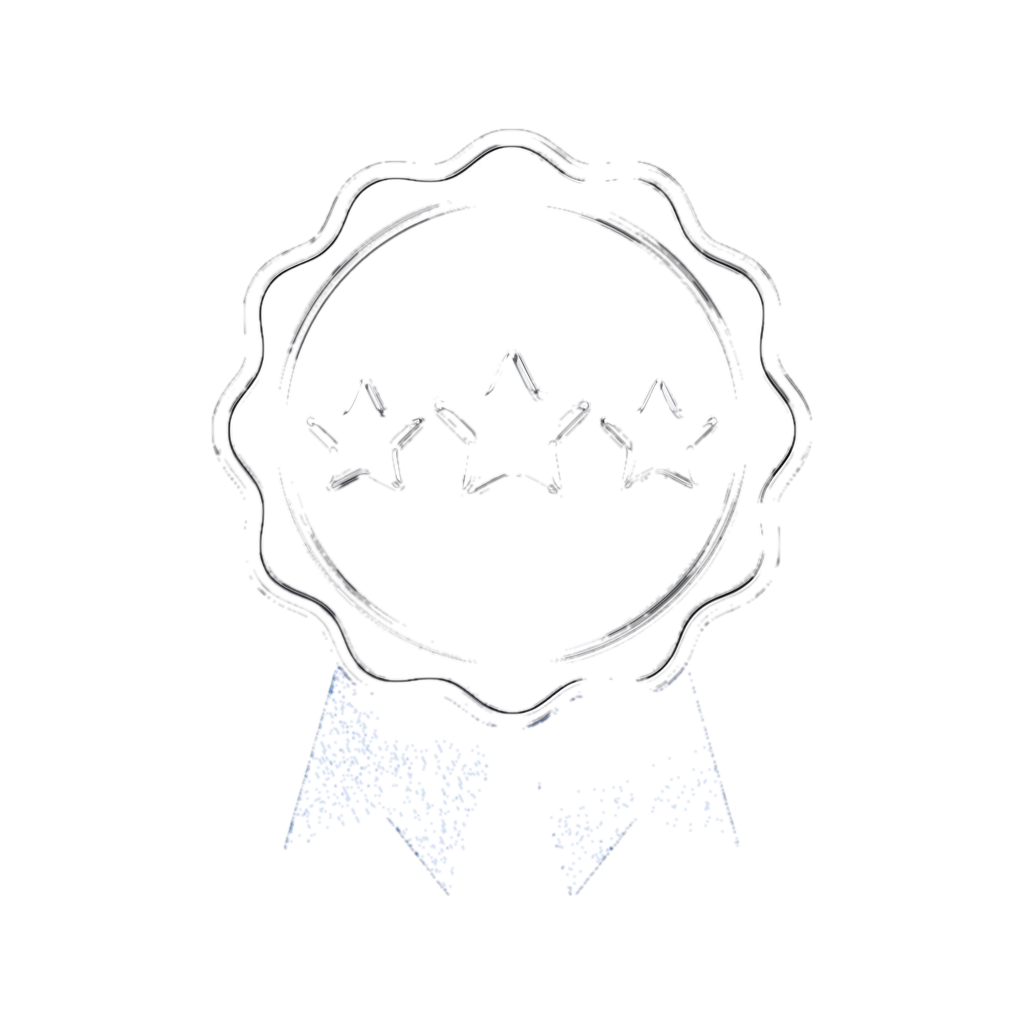
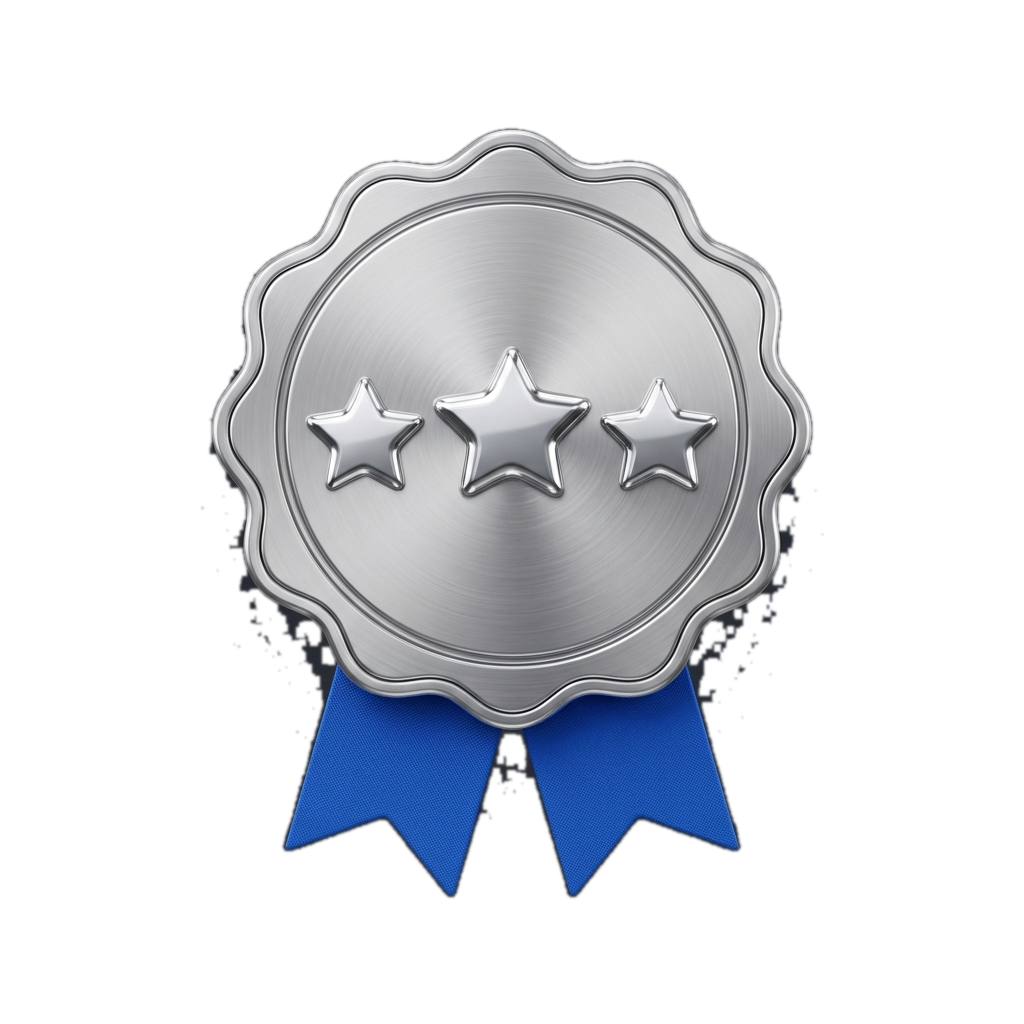
fix: resolve badge transparency and use relative repo path

Changed region(s): [[0.1875, 0.125, 0.8125, 0.875]]

diff --git a/README.md b/README.md
@@ -192,7 +192,7 @@ rules_based_edge: "Actively trades financial markets with systematic models — 
 
 <div align="center">
   <a href="https://www.hackerrank.com/profile/yugnanda_tech" target="_blank">
-    <img src="https://raw.githubusercontent.com/YugNanda/YugNanda/main/assets/hackerrank-silver-badge.png" width="95" height="95" alt="HackerRank 3-Star Silver Problem Solving Badge" />
+    <img src="./assets/hackerrank-silver-badge.png" width="95" height="95" alt="HackerRank 3-Star Silver Problem Solving Badge" />
   </a>
   <br>
   <a href="https://www.hackerrank.com/profile/yugnanda_tech" target="_blank">
